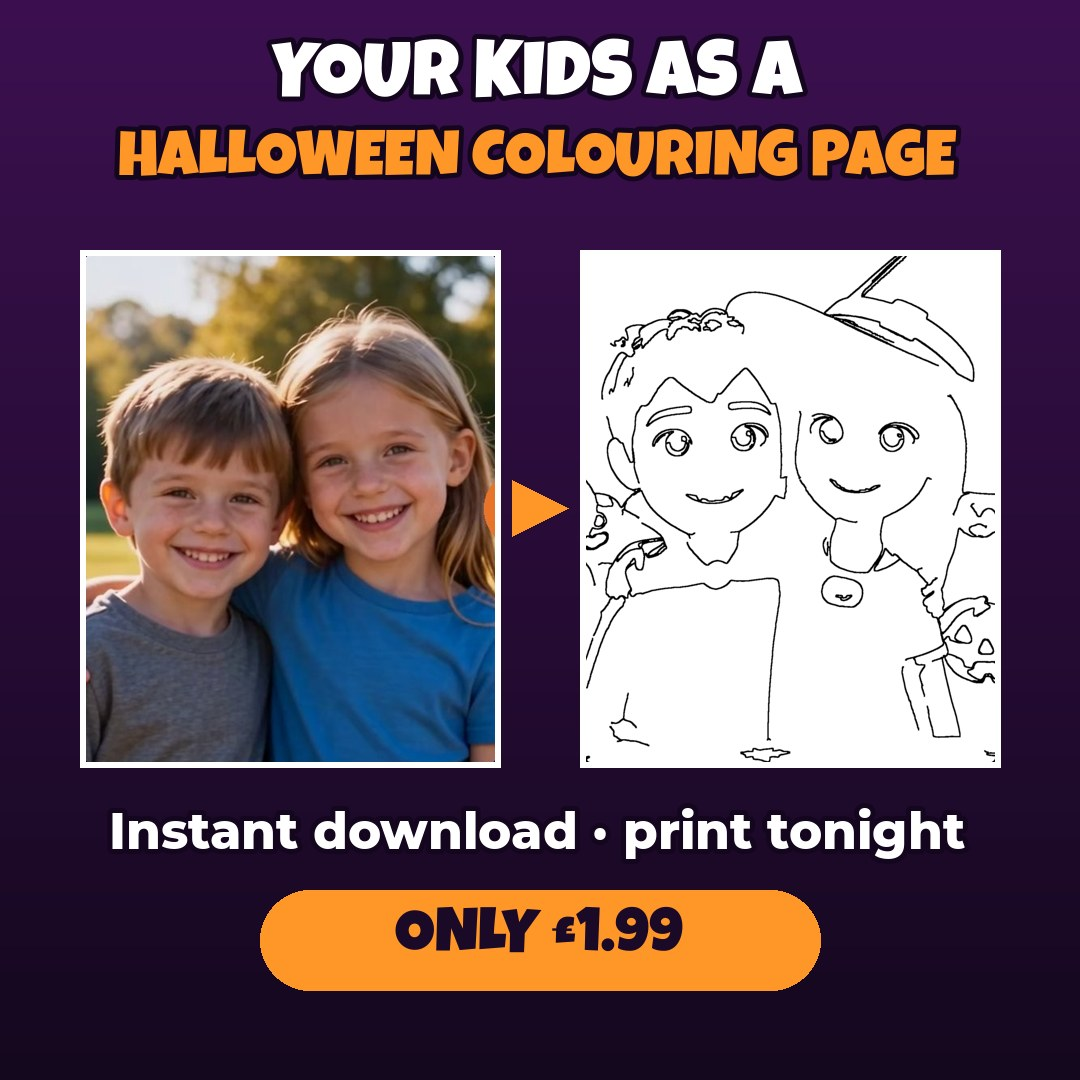
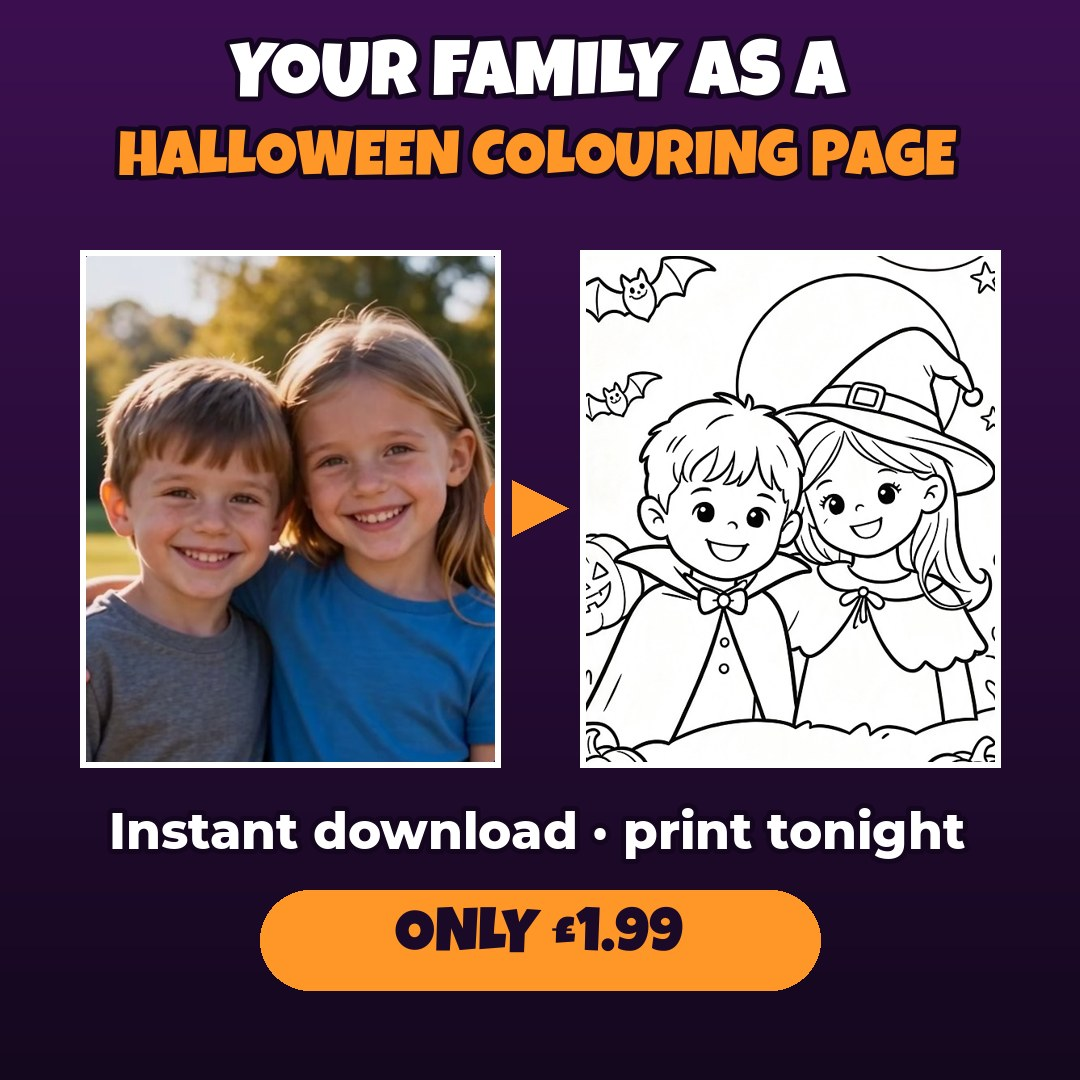
Colouring page: real example drawing, new promo image
Claude-Session: https://claude.ai/code/session_01HbW6DW9iCZ4LUUMQkhEPyg

Changed region(s): [[0.5194, 0.2139, 0.9167, 0.7028], [0.2139, 0.0306, 0.7944, 0.0917]]

diff --git a/printables-promo.js b/printables-promo.js
@@ -12,7 +12,7 @@
   function show(){
     try { if (sessionStorage.getItem("onjjem_prp")) return; sessionStorage.setItem("onjjem_prp","1"); } catch(e){}
     var d = document.createElement("div"); d.className = "prp"; d.setAttribute("role","dialog");
-    d.innerHTML = '<button class="x" aria-label="Close">×</button><div class="pi"><img src="/pr-promo.webp" alt=""><div><span class="k">NEW · INSTANT DOWNLOAD</span><h3><span class="em">🎃</span> Your family or pets as a Halloween ' + w + ' page!</h3><p>Kids, babies, grandparents, dogs, cats, even the hamster, as cute Halloween characters to colour in. Print it tonight! Only ' + price + '.</p></div></div><a class="b" href="' + href + '">🖍 Make mine now</a>';
+    d.innerHTML = '<button class="x" aria-label="Close">×</button><div class="pi"><img src="/pr-promo.webp?v=3" alt=""><div><span class="k">NEW · INSTANT DOWNLOAD</span><h3><span class="em">🎃</span> Your family or pets as a Halloween ' + w + ' page!</h3><p>Kids, babies, grandparents, dogs, cats, even the hamster, as cute Halloween characters to colour in. Print it tonight! Only ' + price + '.</p></div></div><a class="b" href="' + href + '">🖍 Make mine now</a>';
     document.body.appendChild(d);
     requestAnimationFrame(function(){ requestAnimationFrame(function(){ d.classList.add("in"); }); });
     ga("shown");

diff --git a/printables.html b/printables.html
@@ -96,8 +96,9 @@
   <div class="ex2">
     <figure><img src="/pr-photo.webp" alt="A photo of two children" width="520" height="640"><figcaption>Your photo</figcaption></figure>
     <div class="ar">➜</div>
-    <div class="ph"><div>🎃🖍</div><b>Their Halloween colouring page</b><span>Bold black outlines on white, drawn in costume after you order</span></div>
+    <figure><img src="/pr-colouring.webp?v=2" alt="The same children drawn as a Halloween colouring page, a vampire and a witch with pumpkins and bats" width="520" height="640"><figcaption>Their colouring page 🖍</figcaption></figure>
   </div>
+  <p class="note" style="font-size:12px;color:var(--mut);text-align:center;margin:-6px 0 14px">Example. Yours is drawn fresh from your own photo.</p>
 
   <div class="who">
     <b>Works with anyone in your photo:</b>

diff --git a/us/printables.html b/us/printables.html
@@ -96,8 +96,9 @@
   <div class="ex2">
     <figure><img src="/pr-photo.webp" alt="A photo of two children" width="520" height="640"><figcaption>Your photo</figcaption></figure>
     <div class="ar">➜</div>
-    <div class="ph"><div>🎃🖍</div><b>Their Halloween colouring page</b><span>Bold black outlines on white, drawn in costume after you order</span></div>
+    <figure><img src="/pr-colouring.webp?v=2" alt="The same children drawn as a Halloween colouring page, a vampire and a witch with pumpkins and bats" width="520" height="640"><figcaption>Their colouring page 🖍</figcaption></figure>
   </div>
+  <p class="note" style="font-size:12px;color:var(--mut);text-align:center;margin:-6px 0 14px">Example. Yours is drawn fresh from your own photo.</p>
 
   <div class="who">
     <b>Works with anyone in your photo:</b>

diff --git a/index.html b/index.html
@@ -284,6 +284,6 @@ var rv = document.getElementById("reviews"); if (rv) rv.outerHTML = ONJJEM_revie
 </script>
 <script src="/halloween-decor.js?v=20261021a" defer></script>
 <script src="/reviews-strip.js?v=20261011b" defer></script>
-<script src="/printables-promo.js?v=4" defer></script>
+<script src="/printables-promo.js?v=5" defer></script>
 </body>
 </html>

diff --git a/us/index.html b/us/index.html
@@ -230,6 +230,6 @@ var rv = document.getElementById("reviews"); if (rv) rv.outerHTML = ONJJEM_revie
 </script>
 <script src="/halloween-decor.js?v=20261021a" defer></script>
 <script src="/reviews-strip.js?v=20261011b" defer></script>
-<script src="/printables-promo.js?v=4" defer></script>
+<script src="/printables-promo.js?v=5" defer></script>
 </body>
 </html>

diff --git a/halloween.html b/halloween.html
@@ -77,6 +77,6 @@ window.PAGE = {
 <script src="/cartoonify-shared.js?v=20261016g"></script>
 <script src="/halloween-decor.js?v=20261021a" defer></script>
 <script src="/giveaway-banner.js?v=20261016g" defer></script>
-<script src="/printables-promo.js?v=4" defer></script>
+<script src="/printables-promo.js?v=5" defer></script>
 </body>
 </html>

diff --git a/us/halloween.html b/us/halloween.html
@@ -85,6 +85,6 @@ window.PAGE = {
 <script src="/cartoonify-shared.js?v=20261016g"></script>
 <script src="/halloween-decor.js?v=20261021a" defer></script>
 <script src="/giveaway-banner.js?v=20261016g" defer></script>
-<script src="/printables-promo.js?v=4" defer></script>
+<script src="/printables-promo.js?v=5" defer></script>
 </body>
 </html>

diff --git a/kids-clothing.html b/kids-clothing.html
@@ -64,6 +64,6 @@
 document.getElementById("hdr").innerHTML = ONJJEM_headerHtml();
 document.getElementById("ftr").innerHTML = ONJJEM_footerHtml();
 </script>
-<script src="/printables-promo.js?v=4" defer></script>
+<script src="/printables-promo.js?v=5" defer></script>
 </body>
 </html>

diff --git a/cartoon.html b/cartoon.html
@@ -203,6 +203,6 @@
 </script>
 <script src="/reviews-strip.js?v=20261011b" defer></script>
 <script src="/giveaway-banner.js?v=20261016g" defer></script>
-<script src="/printables-promo.js?v=4" defer></script>
+<script src="/printables-promo.js?v=5" defer></script>
 </body>
 </html>

diff --git a/blanket.html b/blanket.html
@@ -65,6 +65,6 @@ window.PAGE = {
 </script>
 <script src="/landing.js?v=20261021b"></script>
 <script src="/cartoonify-shared.js?v=20261016g"></script>
-<script src="/printables-promo.js?v=4" defer></script>
+<script src="/printables-promo.js?v=5" defer></script>
 </body>
 </html>

diff --git a/canvas.html b/canvas.html
@@ -64,6 +64,6 @@ window.PAGE = {
 </script>
 <script src="/landing.js?v=20261021b"></script>
 <script src="/cartoonify-shared.js?v=20261016g"></script>
-<script src="/printables-promo.js?v=4" defer></script>
+<script src="/printables-promo.js?v=5" defer></script>
 </body>
 </html>

diff --git a/christmas.html b/christmas.html
@@ -67,6 +67,6 @@ window.PAGE = {
 </script>
 <script src="/landing.js?v=20261021b"></script>
 <script src="/cartoonify-shared.js?v=20261016g"></script>
-<script src="/printables-promo.js?v=4" defer></script>
+<script src="/printables-promo.js?v=5" defer></script>
 </body>
 </html>
